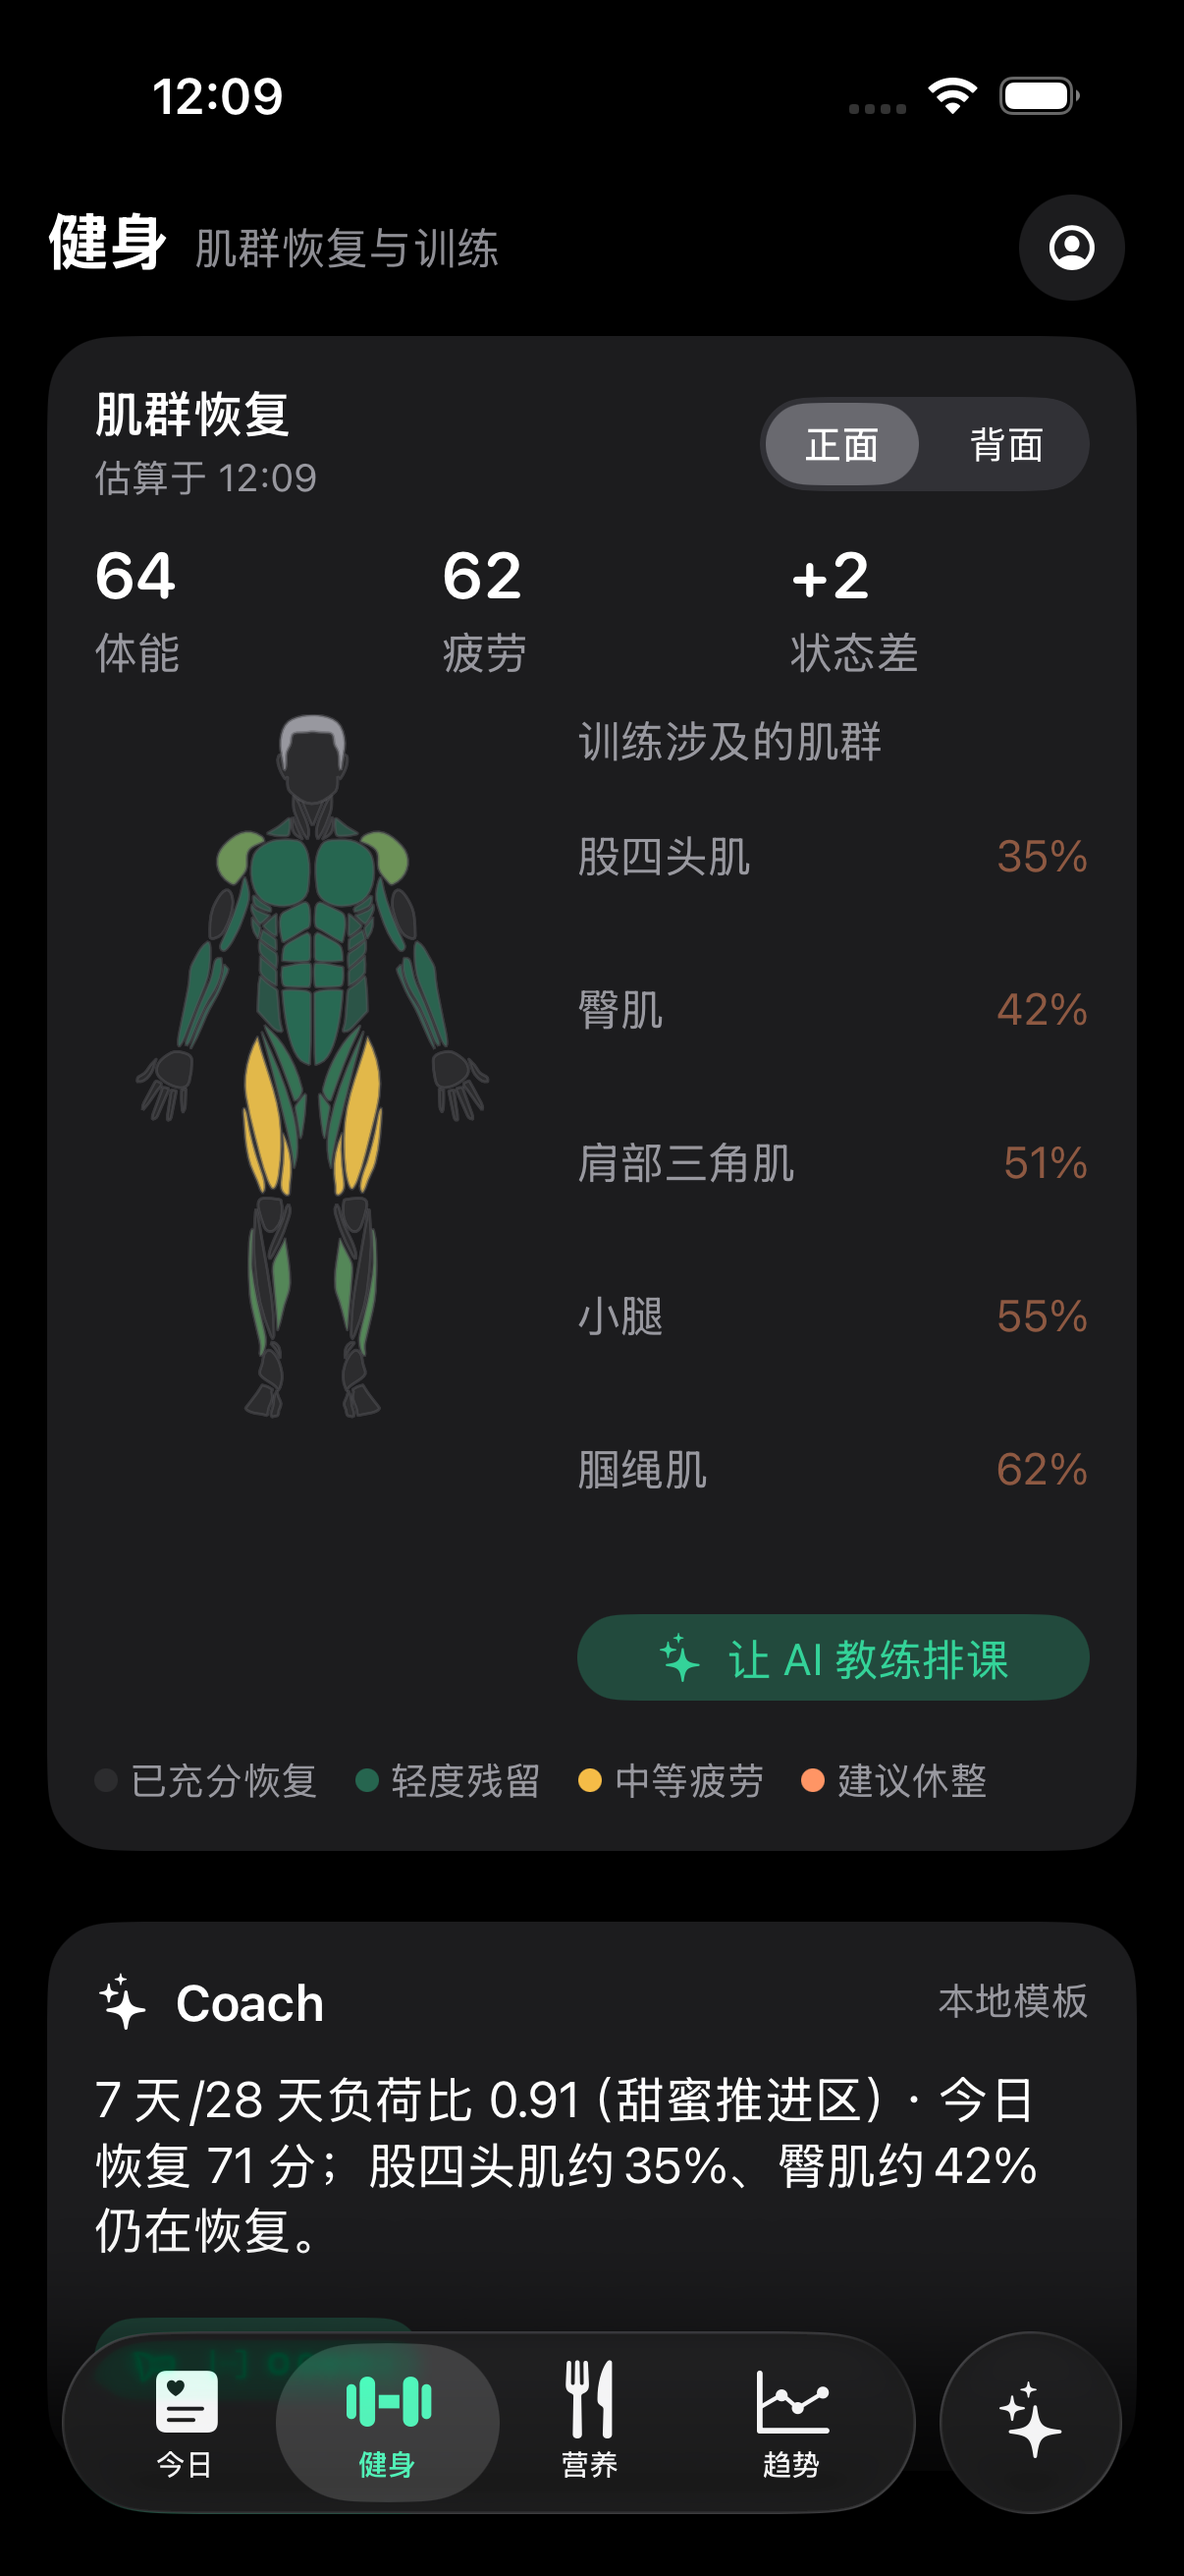
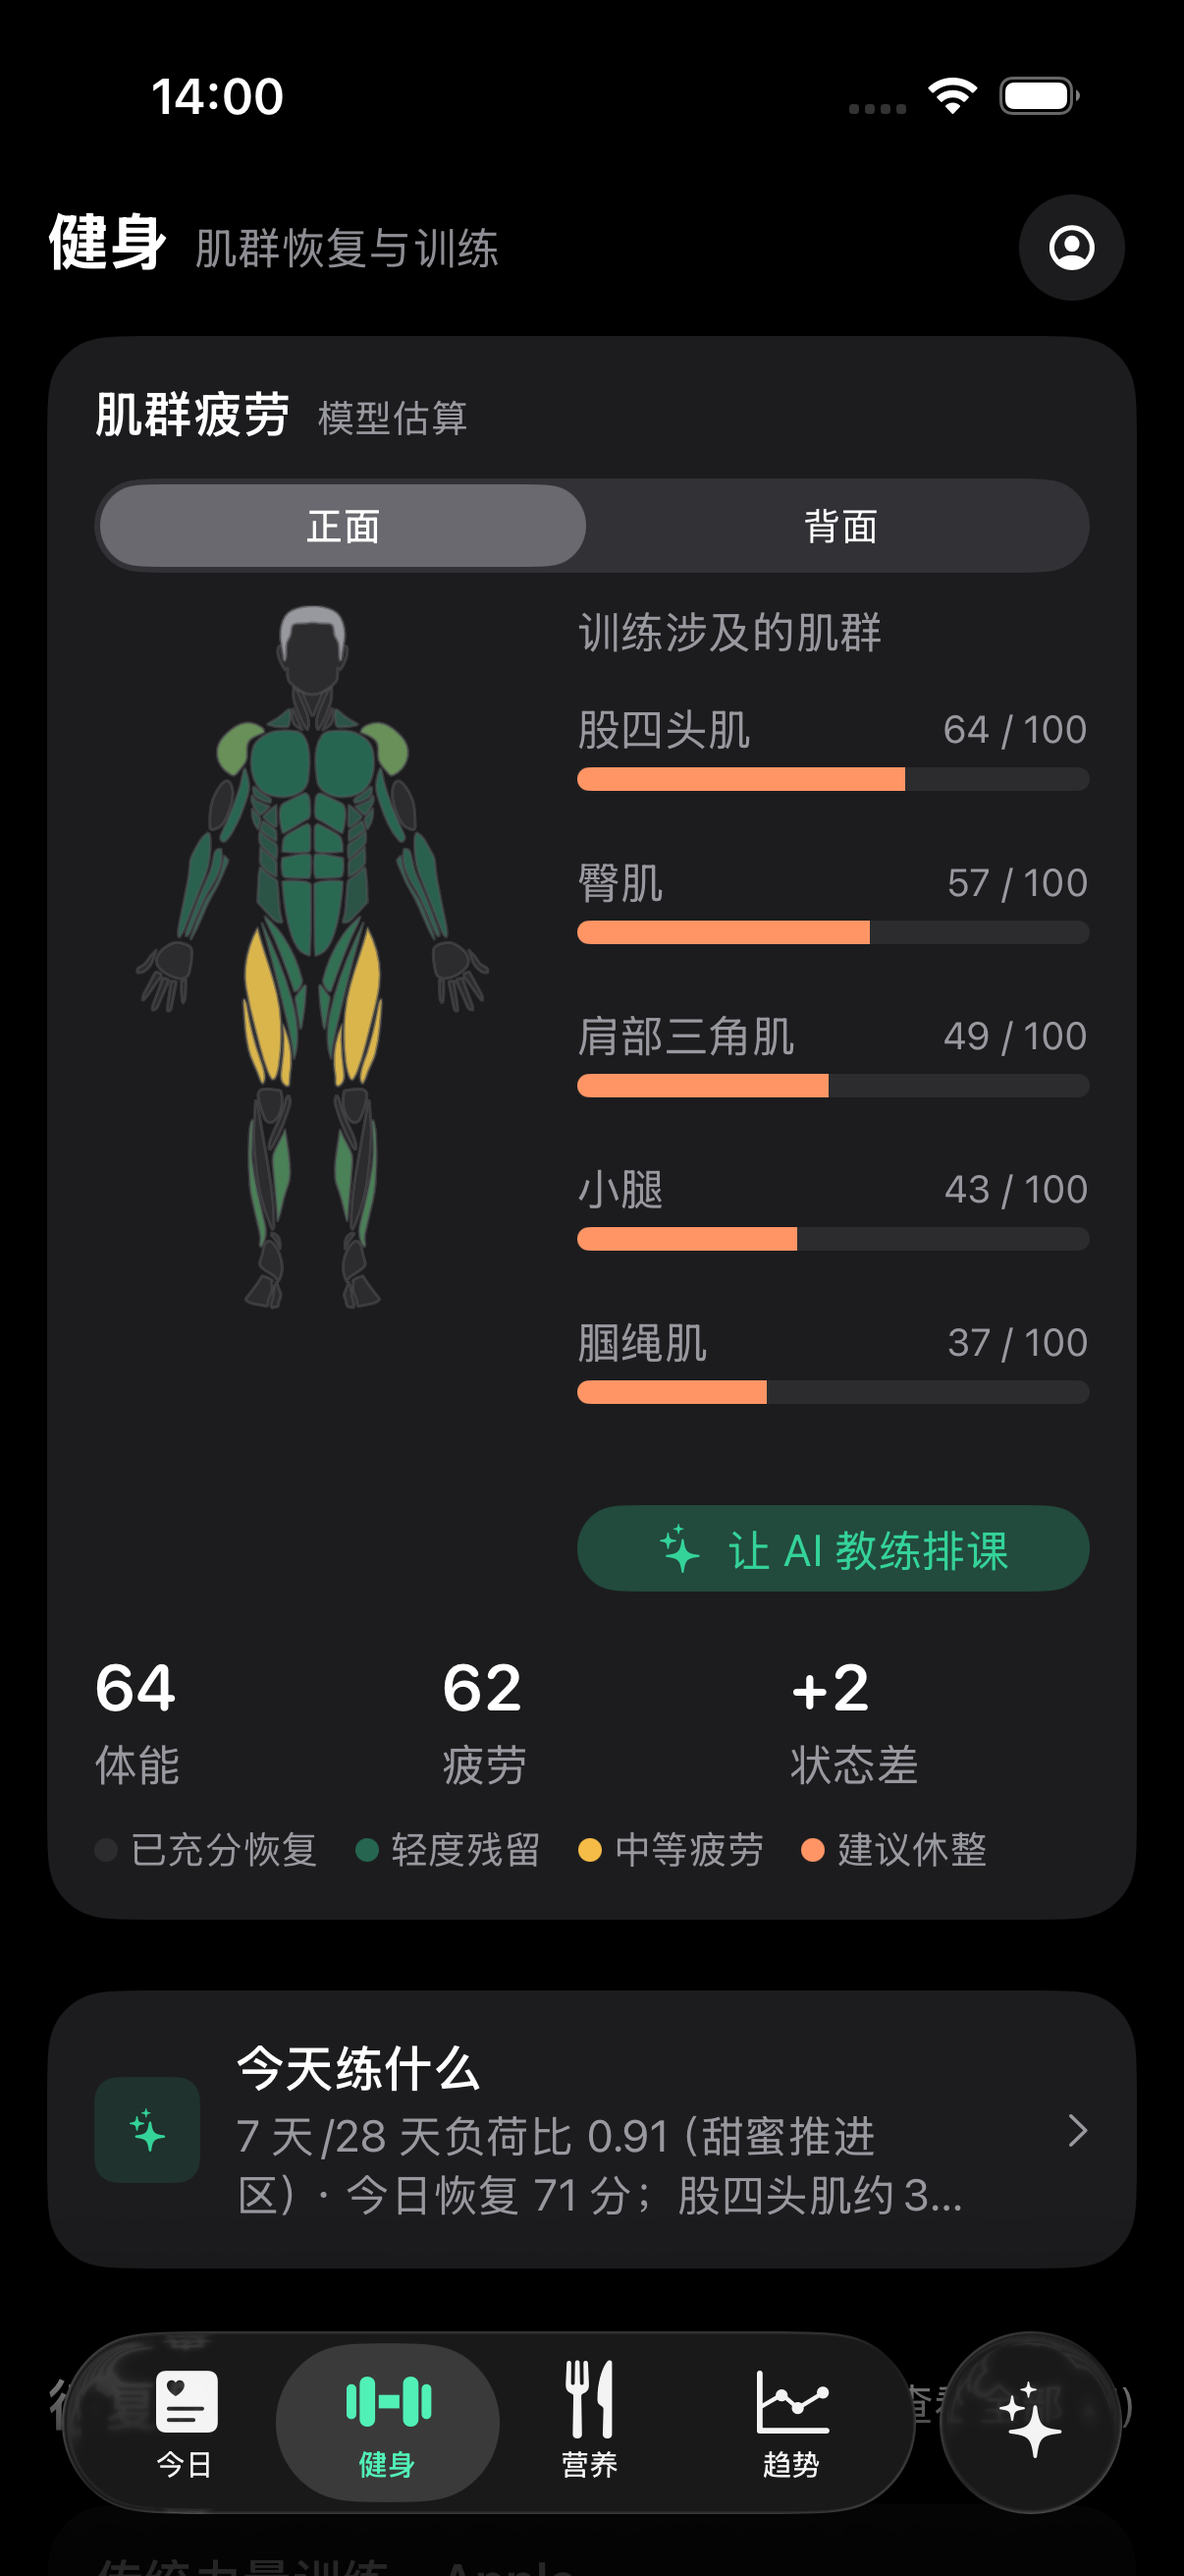
[V6][UIv4-健身] 肌群疲劳卡（正反面、疲劳条、三栏数字）、今天练什么入口+sheet、最近训练、表现记录（VO2max/体重真实数据，e1RM 空状态）、体能疲劳图移到页尾；VelaUITests 文案适配；截图

diff --git a/BodySeekKit/Sources/BodySeekFeatures/Views/WorkoutView.swift b/BodySeekKit/Sources/BodySeekFeatures/Views/WorkoutView.swift
@@ -24,6 +24,7 @@ public struct WorkoutView: View {
     @State private var showAllArchive = false
     @State private var archiveFilter: ArchiveFilter = .all
     @State private var selectedLoadPoint: FitnessFatiguePoint?
+    @State private var showAdvice = false
 
     public init(store: StoreOf<WorkoutFeature>) {
         self.store = store
@@ -37,7 +38,7 @@ public struct WorkoutView: View {
         } sections: {
             sectionsContent
         } links: {
-            archiveSection
+            EmptyView()
         }
         .oneLineHeader(subtitle: "肌群恢复与训练")
         .onAppear {
@@ -56,6 +57,10 @@ public struct WorkoutView: View {
                     return
                 }
             }
+        }
+        .sheet(isPresented: $showAdvice) {
+            adviceSheet
+                .presentationDetents([.medium, .large])
         }
         .sheet(isPresented: reviewSheetBinding) {
             WorkoutReviewSheetView(store: store)
@@ -139,21 +144,19 @@ public struct WorkoutView: View {
     private var bodyMapCard: some View {
         BSCard {
             VStack(alignment: .leading, spacing: BSSpace.s) {
-                HStack {
-                    VStack(alignment: .leading, spacing: BSSpace.xxs) {
-                        Text("肌群恢复")
-                            .bsText(.cardTitle)
-                        Text("估算于 \(store.recoverySnapshot.asOf, format: .dateTime.hour().minute())")
-                            .bsText(.caption)
-                    }
+                HStack(alignment: .firstTextBaseline, spacing: BSSpace.xs) {
+                    Text("肌群疲劳")
+                        .bsText(.cardTitle)
+                    Text("模型估算")
+                        .bsText(.caption)
                     Spacer(minLength: BSSpace.xs)
-                    sidePicker
                 }
-                overallStatusRow
+                sidePicker
                 HStack(alignment: .top, spacing: BSSpace.m) {
                     bodyMap
                     musclePanel
                 }
+                overallStatusRow
                 legend
             }
         }
@@ -168,7 +171,6 @@ public struct WorkoutView: View {
             Text("背面").tag(BodySideOption.back)
         }
         .pickerStyle(.segmented)
-        .frame(width: BSSize.ringL)
         .accessibilityIdentifier("workout.bodySidePicker")
     }
 
@@ -177,16 +179,17 @@ public struct WorkoutView: View {
         return HStack(alignment: .top, spacing: BSSpace.m) {
             statBlock("体能", value: formatLoad(latest?.fitness))
             statBlock("疲劳", value: formatLoad(latest?.fatigue))
-            statBlock("状态差", value: formatForm(latest?.form))
+            statBlock("状态差", value: formatForm(latest?.form), isNegative: (latest?.form ?? 0) < 0)
         }
         .accessibilityElement(children: .contain)
         .accessibilityIdentifier("workout-overall-status")
     }
 
-    private func statBlock(_ title: String, value: String) -> some View {
+    private func statBlock(_ title: String, value: String, isNegative: Bool = false) -> some View {
         VStack(alignment: .leading, spacing: BSSpace.xxs) {
             Text(value)
                 .bsText(.number)
+                .foregroundStyle(isNegative ? BSColor.strain : Color.primary)
             Text(title)
                 .bsText(.label)
         }
@@ -279,17 +282,24 @@ public struct WorkoutView: View {
     }
 
     private func rankRow(_ est: MuscleRecoveryEstimate) -> some View {
-        let tint = est.isReadyForPrimaryWork ? BSColor.recovery : BSColor.strain
+        let fatigue = Self.fullScale - est.recoveryPercent
         return Button {
             store.send(.inspectMuscleRecovery(est.muscle))
         } label: {
-            HStack {
-                Text(est.muscle.title)
-                    .bsText(.label)
-                Spacer()
-                Text("\(est.recoveryPercent)%")
-                    .bsText(.label)
-                    .foregroundStyle(tint)
+            VStack(spacing: BSSpace.xxs) {
+                HStack {
+                    Text(est.muscle.title)
+                        .bsText(.label)
+                    Spacer()
+                    Text("\(fatigue) / \(Self.fullScale)")
+                        .bsText(.caption)
+                }
+                BSStripedProgressBar(
+                    recorded: Double(fatigue),
+                    estimated: 0,
+                    target: Double(Self.fullScale),
+                    tint: BSColor.strain
+                )
             }
             .frame(minHeight: BSSize.hitTarget)
             .contentShape(.rect)
@@ -297,6 +307,8 @@ public struct WorkoutView: View {
         .buttonStyle(.bsPressable)
         .accessibilityIdentifier("workout-muscle-rank-\(est.muscle.rawValue)")
     }
+
+    private static let fullScale = 100
 
     private var legend: some View {
         HStack(spacing: BSSpace.s) {
@@ -320,12 +332,39 @@ public struct WorkoutView: View {
     // MARK: - L1 Coach 解读
 
     private var noteSection: some View {
-        BSCoachNote(
-            noteText,
-            engine: BSBriefEngine(store.dailyBrief?.engine),
-            onAsk: askCoachAction,
-            askIdentifier: "workout-ask-coach-button"
-        )
+        BSCoachEntryRow(
+            title: "今天练什么",
+            summary: noteText,
+            identifier: "workout-advice-entry"
+        ) {
+            showAdvice = true
+        }
+    }
+
+    private var adviceSheet: some View {
+        NavigationStack {
+            ScrollView {
+                BSCoachNote(
+                    noteText,
+                    engine: BSBriefEngine(store.dailyBrief?.engine),
+                    onAsk: {
+                        showAdvice = false
+                        askCoachAction()
+                    },
+                    askIdentifier: "workout-ask-coach-button"
+                )
+                .padding(BSSpace.m)
+            }
+            .background(BSColor.canvas)
+            .navigationTitle("今天练什么")
+            .bodyseekNavigationBarInline()
+            .toolbar {
+                ToolbarItem(placement: .bodyseekTrailing) {
+                    Button("完成") { showAdvice = false }
+                        .accessibilityIdentifier("workout-advice-done")
+                }
+            }
+        }
     }
 
     private var askCoachAction: () -> Void {
@@ -365,7 +404,73 @@ public struct WorkoutView: View {
         if !store.unreviewedWorkouts.isEmpty {
             reviewSection
         }
+        archiveSection
+        performanceSection
         loadSection
+    }
+
+    // MARK: - 表现记录（真实数据；e1RM 暂无数据模型，显示空状态，不放假数据）
+
+    private var performanceSection: some View {
+        BSSection("表现记录") {
+            BSCard {
+                VStack(spacing: BSSpace.xs) {
+                    performanceRow(
+                        title: "最大摄氧量", systemImage: "lungs.fill", tint: BSColor.respiration,
+                        unit: "mL/kg/min", digits: 1, values: historyValues(\.vo2MaxMlKgMin)
+                    )
+                    Divider()
+                    performanceRow(
+                        title: "体重", systemImage: "scalemass.fill", tint: BSColor.oxygen,
+                        unit: "kg", digits: 1, values: historyValues(\.bodyMassKg)
+                    )
+                    Divider()
+                    BSVitalRow(
+                        title: "深蹲 e1RM", systemImage: "figure.strengthtraining.traditional",
+                        tint: BSColor.strain, value: nil, unit: "kg",
+                        comparison: "复盘里记下重量和次数后可估算"
+                    )
+                }
+            }
+            .accessibilityElement(children: .contain)
+            .accessibilityIdentifier("workout-performance-card")
+        }
+    }
+
+    private func historyValues(_ keyPath: KeyPath<DailyRawMetrics, Double?>) -> [Double] {
+        let days = store.snapshot.historyDays.map(\.raw) + [store.snapshot.today.raw]
+        return days.compactMap { $0[keyPath: keyPath] }
+    }
+
+    private func performanceRow(
+        title: String,
+        systemImage: String,
+        tint: Color,
+        unit: String,
+        digits: Int,
+        values: [Double]
+    ) -> some View {
+        let latest = values.last
+        return BSVitalRow(
+            title: title,
+            systemImage: systemImage,
+            tint: tint,
+            value: latest.map { $0.formatted(.number.precision(.fractionLength(digits))) },
+            unit: unit,
+            comparison: changeText(values: values, unit: unit, digits: digits),
+            trend: Array(values.suffix(Self.performanceTrendCount))
+        )
+    }
+
+    private static let performanceTrendCount = 30
+
+    private func changeText(values: [Double], unit: String, digits: Int) -> String {
+        guard let first = values.first, let last = values.last else { return "暂无同步数据" }
+        guard values.count >= 2 else { return "仅 1 次记录" }
+        let delta = last - first
+        let magnitude = abs(delta).formatted(.number.precision(.fractionLength(digits)))
+        if magnitude == (0.0).formatted(.number.precision(.fractionLength(digits))) { return "较此前持平" }
+        return "较此前 \(delta > 0 ? "+" : "−")\(magnitude) \(unit)"
     }
 
     private func proposalCard(_ proposal: WorkoutProposal) -> some View {
@@ -533,7 +638,7 @@ public struct WorkoutView: View {
 
     private var archiveSection: some View {
         BSSection(
-            "手表训练记录",
+            "最近训练",
             actionTitle: archiveToggleTitle,
             action: archiveToggleAction
         ) {

diff --git a/VelaUITests/BodySeekUITests.swift b/VelaUITests/BodySeekUITests.swift
@@ -474,7 +474,7 @@ final class BodySeekUITests: XCTestCase {
         XCTAssertTrue(waitForDisappearance(of: undo, timeout: 8))
 
         tapTab("健身", in: app)
-        XCTAssertTrue(app.staticTexts["肌群恢复"].waitForExistence(timeout: 6))
+        XCTAssertTrue(app.staticTexts["肌群疲劳"].waitForExistence(timeout: 6))
         tapTab("Coach", in: app)
         XCTAssertTrue(app.otherElements["coach-receipt-card"].firstMatch.waitForExistence(timeout: 5))
         XCTAssertFalse(app.buttons["coach-receipt-undo"].exists)
@@ -564,7 +564,7 @@ final class BodySeekUITests: XCTestCase {
         try snap("08-trends-3y-capsules")
 
         tapTab("健身", in: app)
-        XCTAssertTrue(app.staticTexts["肌群恢复"].waitForExistence(timeout: 5))
+        XCTAssertTrue(app.staticTexts["肌群疲劳"].waitForExistence(timeout: 5))
         try snap("09-workout-musclemap")
     }
 
